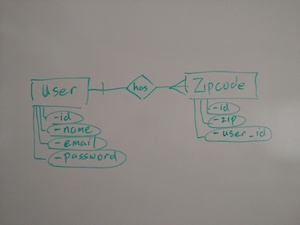
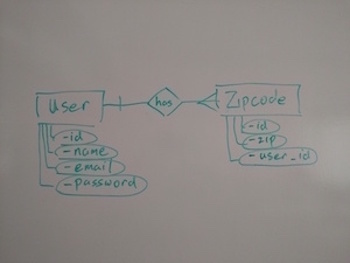
Resize images used in the markup, and tweak markdown formatting

diff --git a/README.md b/README.md
@@ -1,6 +1,6 @@
 ## BuzzBites
 
-#BuzzBites is for anyone searching for awesome restaurants, just a short walk away. You don't need to go on Foursquare, Twitter, or Instagram: It's all here on BuzzBites! #
+*BuzzBites is for anyone searching for awesome restaurants, just a short walk away. You don't need to go on Foursquare, Twitter, or Instagram: It's all here on BuzzBites!*
 
 Get first-hand accounts on what folks are saying about restaurants you're curious about. Check out posts on Twitter and Instagram about the trending restaurants around you, or enter a zip code for restaurants in an area you're curious about. Take all the guesswork, research, and planning out of your group dinner outings. Got a date? Bring them to a special spot. Brunch with the inlaws? Impress them with your knowledge of the neighborhood eateries.
 
@@ -24,4 +24,4 @@ Check out pics of our humble beginnings
 
 Before you go, we want you to know that our team had lots of fun working on this app, and we hope you have lots of fun using it.
 
-#<3# Mekesia ([@Githubbubber](https://github.com/Githubbubber)), Reggie ([@ReggieKim](https://github.com/reggiekim)), Victor ([@Koipondkeepers](https://github.com/koipondkeepers)) and David ([@DPatuwo](https://github.com/dpatuwo))
+<3 Mekesia ([@Githubbubber](https://github.com/Githubbubber)), Reggie ([@ReggieKim](https://github.com/reggiekim)), Victor ([@Koipondkeepers](https://github.com/koipondkeepers)) and David ([@DPatuwo](https://github.com/dpatuwo))
